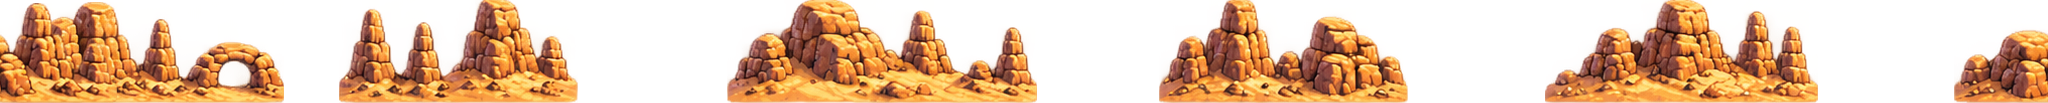
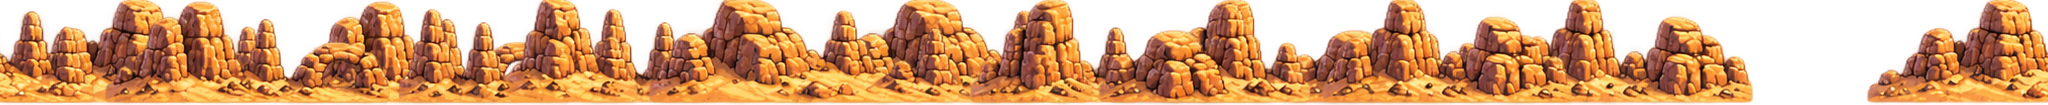
Cut desert scenery pieces by their own outline
Fixes half-cut palms (a neighbour's tree caught in a rectangle crop) and
floating leaves (leaf tips split off their trees); clouds no longer get
into the mesa layer.

Claude-Session: https://claude.ai/code/session_01MtQBiqbKCuzkutaTWsEgBr

diff --git a/scripts/slice-art.py b/scripts/slice-art.py
@@ -310,6 +310,48 @@ def pieces_in(img, box, min_w=30):
     return [img.crop(p) for p in find_pieces(img, box, alpha=100, grow=1, min_size=16) if p[2] - p[0] >= min_w]
 
 
+def objects_in(img, box, min_w=30, grow=6, grounded=None):
+    """Like pieces_in, but each piece is cut out by its own outline (not a rectangle), so parts
+    of neighbouring objects never come with it. Bits within `grow` px (leaf tips, pebbles)
+    stay attached to their object."""
+    from collections import deque
+    region = img.crop(box)
+    alpha = np.asarray(region.getchannel('A')) > 20
+    m = alpha.copy()
+    for _ in range(grow):
+        d = m.copy()
+        d[1:] |= m[:-1]; d[:-1] |= m[1:]; d[:, 1:] |= m[:, :-1]; d[:, :-1] |= m[:, 1:]
+        m = d
+    h, w = m.shape
+    label = np.zeros((h, w), dtype=np.int32)
+    out, n = [], 0
+    for sy, sx in zip(*np.nonzero(m)):
+        if label[sy, sx]:
+            continue
+        n += 1
+        q = deque([(sy, sx)])
+        label[sy, sx] = n
+        while q:
+            y, x = q.popleft()
+            for ny, nx in ((y + 1, x), (y - 1, x), (y, x + 1), (y, x - 1)):
+                if 0 <= ny < h and 0 <= nx < w and m[ny, nx] and not label[ny, nx]:
+                    label[ny, nx] = n
+                    q.append((ny, nx))
+    arr = np.asarray(region).copy()
+    for i in range(1, n + 1):
+        own = (label == i) & alpha
+        ys, xs = np.nonzero(own)
+        if len(xs) == 0 or xs.max() - xs.min() + 1 < min_w:
+            continue
+        # Only things standing on the band's ground line (drops clouds, stray strips).
+        if grounded is not None and (ys.max() < h - grounded or ys.max() - ys.min() < 20):
+            continue
+        piece = arr.copy()
+        piece[..., 3] = np.where(label == i, piece[..., 3], 0)
+        out.append((xs.min(), Image.fromarray(piece).crop((xs.min(), ys.min(), xs.max() + 1, ys.max() + 1))))
+    return [p for _, p in sorted(out, key=lambda t: t[0])]
+
+
 def paste_wrap(tile, piece, x, y):
     w = tile.width
     for dx in (-w, 0, w):
@@ -447,7 +489,7 @@ def desert_layer(name, img, scale_):
     area_art[name] = {'height': round(img.height * scale_, 1)}
 
 
-mesas = pieces_in(dkit, (0, 157, 1774, 250), min_w=60)
+mesas = objects_in(dkit, (0, 160, 1774, 250), min_w=60, grow=2, grounded=12)
 desert_layer('desert-mesas', compose(mesas, 2048, max(p.height for p in mesas), overlap=30, seed=7), 1.9)
 dunes = dkit.crop(tight(dkit, (0, 268, 1774, 341), alpha=100))
 dunes = crossfade_tile(dunes, 140)
@@ -457,9 +499,9 @@ dunes_full = Image.new('RGBA', (dunes.width, dunes.height + 60), tuple(int(c) fo
 dunes_full.paste(Image.new('RGBA', (dunes.width, dunes.height), (0, 0, 0, 0)), (0, 0))
 dunes_full.alpha_composite(dunes, (0, 0))
 desert_layer('desert-dunes', dunes_full, 1.9)
-rocks = pieces_in(dkit, (0, 360, 1774, 469), min_w=80)
+rocks = objects_in(dkit, (0, 360, 1774, 469), min_w=80)
 desert_layer('desert-rocks', compose(rocks, 2048, max(p.height for p in rocks), spacing=(20, 160), seed=8), 1.5)
-village_d = pieces_in(dkit, (0, 484, 1774, 614), min_w=60)
+village_d = objects_in(dkit, (0, 484, 1774, 614), min_w=60)
 desert_layer('desert-village', compose(village_d, 2048, max(p.height for p in village_d), spacing=(10, 120), seed=9), 1.5)
 
 # Sand bank under the rails (cut below its sleeper tops), like the grass one.
